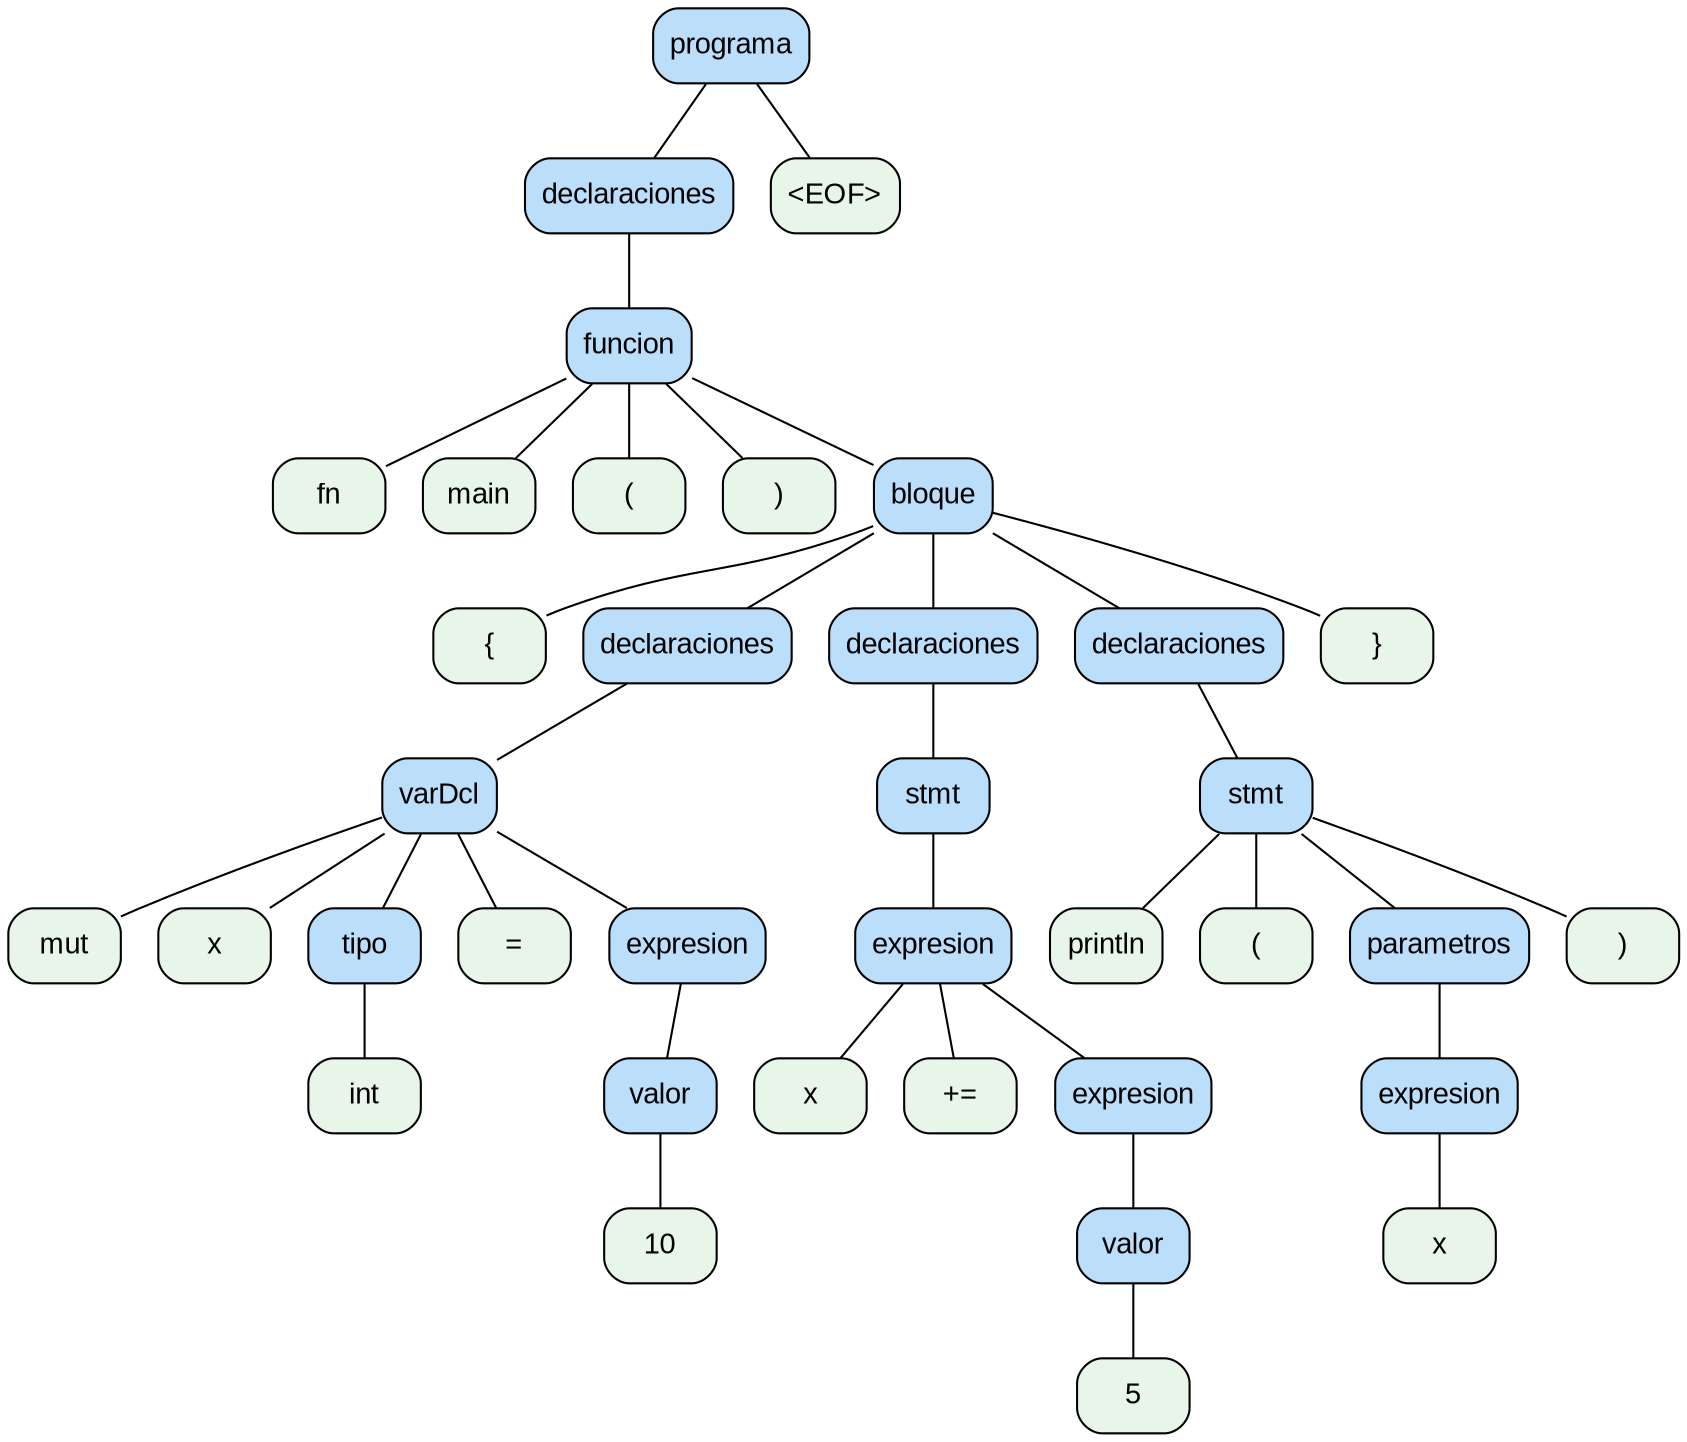
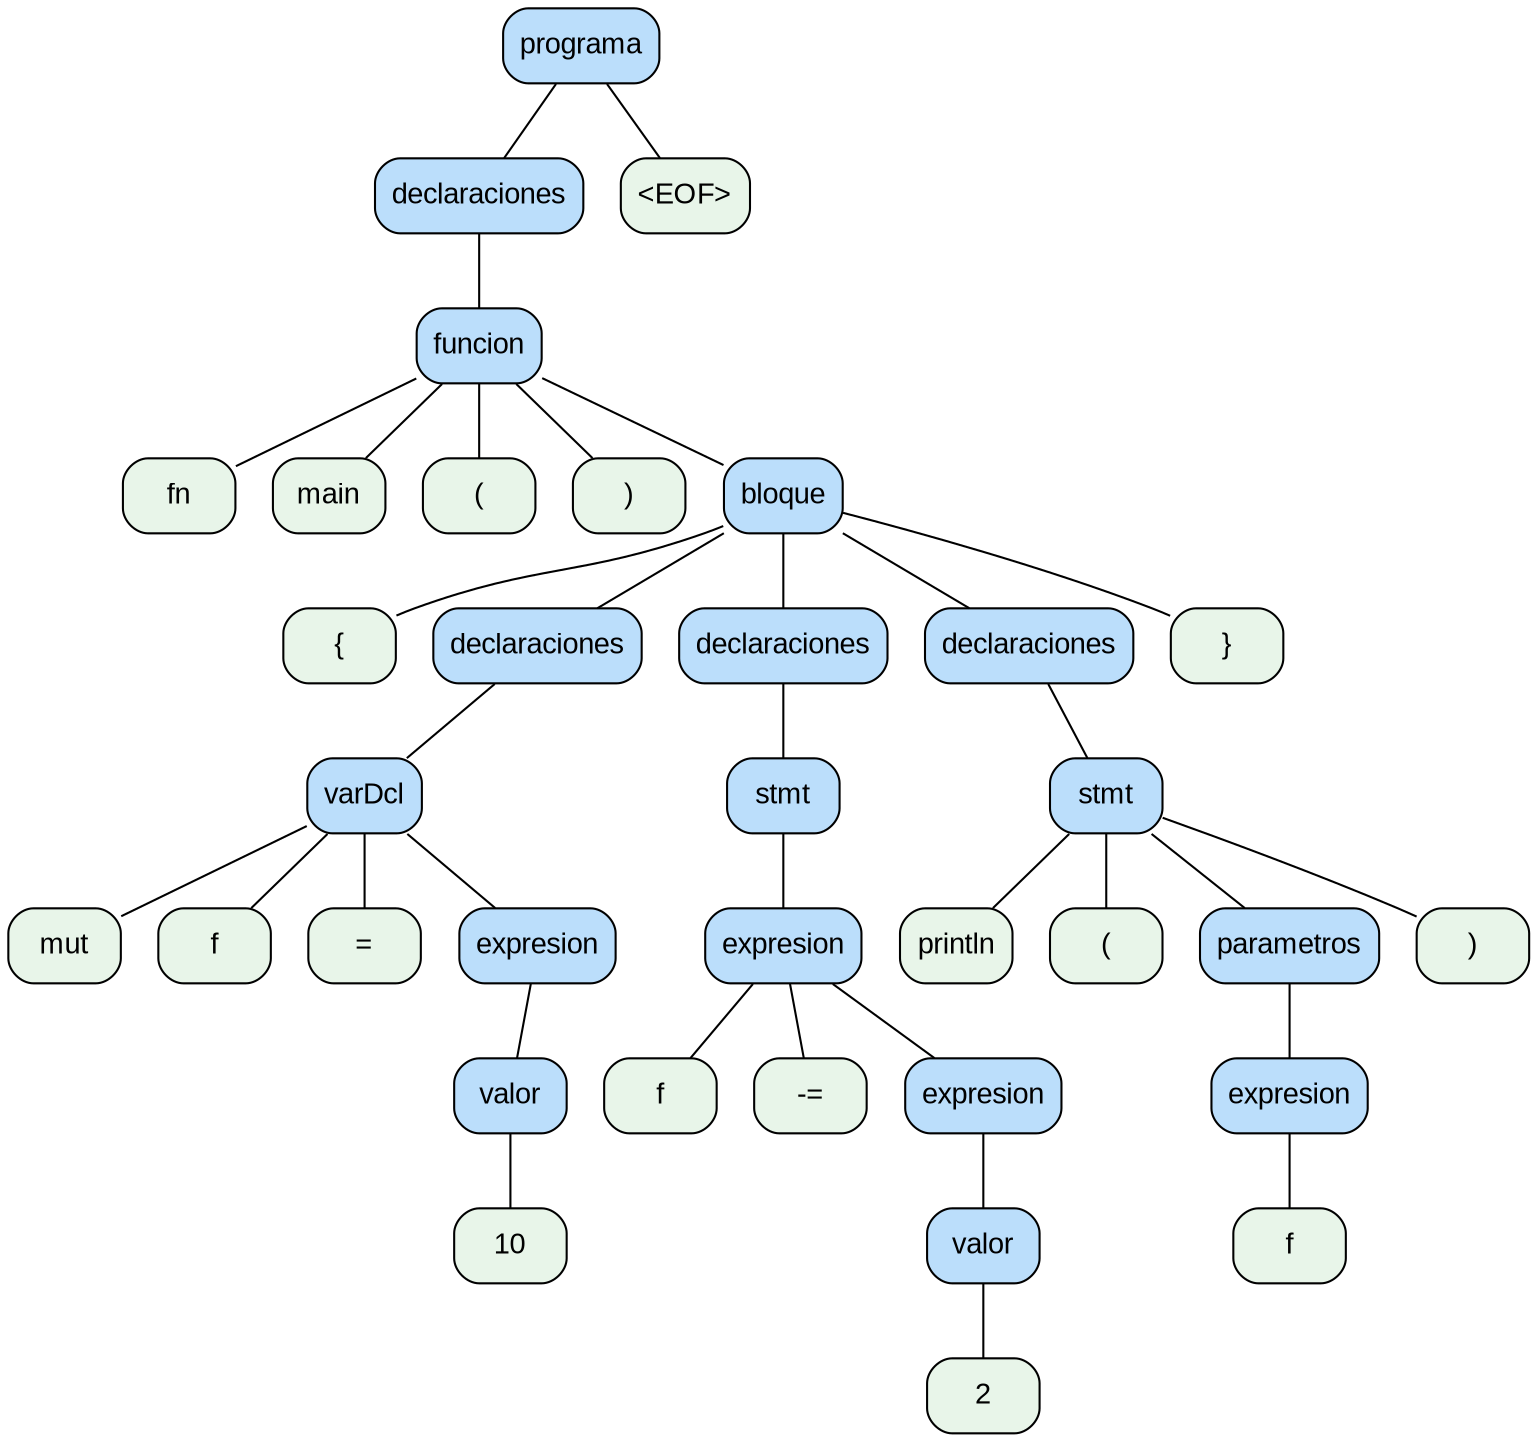
asignacion resta solo para enteros

diff --git a/arm/visitorARM.go b/arm/visitorARM.go
@@ -386,6 +386,13 @@ func (v *ArmVisitor) VisitFuncion(ctx *parser.FuncionContext) interface{} {
     return nil
 }
 
+var floatLabelCounter int = 0
+
+func (g *ArmGenerator) GenerateConstLabel() string {
+	label := fmt.Sprintf("float_const_%d", floatLabelCounter)
+	floatLabelCounter++
+	return label
+}
 
 
 
@@ -420,10 +427,13 @@ func (v *ArmVisitor) VisitVariableDeclaration(ctx *parser.VariableDeclarationCon
 		switch value := val.(type) {
 		case string:
 			reg = value
-			tipo = "int" // por defecto, puedes mejorar esto más adelante con análisis semántico
+			tipo = "int"
 		case ArmString:
 			reg = value.Reg
 			tipo = "string"
+		case FloatReg:
+			reg = value.Reg
+			tipo = "float64"
 		default:
 			fmt.Printf("⚠ Error: expresión no retornó un registro válido para variable '%s'\n", varName)
 			return nil
@@ -432,27 +442,50 @@ func (v *ArmVisitor) VisitVariableDeclaration(ctx *parser.VariableDeclarationCon
 		v.Generator.Add(fmt.Sprintf("STR %s, %s", reg, memLocation))
 		v.Generator.Comment(fmt.Sprintf("Variable %s inicializada con valor en %s", varName, reg))
 
-		// Guardar tipo y ubicación
 		v.Generator.Variables[varName] = SymbolInfo{
 			Location: memLocation,
 			Type:     tipo,
 		}
 	} else {
-		v.Generator.Add(fmt.Sprintf("MOV %s, #0", X0))
-		v.Generator.Add(fmt.Sprintf("STR %s, %s", X0, memLocation))
-		v.Generator.Comment(fmt.Sprintf("Variable %s declarada sin valor (inicializada en 0)", varName))
+		var tipo string
+		if ctx.Tipo() != nil {
+			tipoTexto := ctx.Tipo().GetText()
+			switch tipoTexto {
+			case "float64":
+				tipo = "float64"
+				label := v.Generator.GenerateConstLabel()
+				v.Generator.AddDataDouble(label, 0.0)
+				v.Generator.Add(fmt.Sprintf("ADR x1, %s", label))
+				v.Generator.Add("LDR d0, [x1]")
+				v.Generator.Add(fmt.Sprintf("STR d0, %s", memLocation))
 
-		// Por defecto, tipo int si no tiene valor inicial
+			case "string":
+				tipo = "string"
+				label := v.Generator.GenerateStringLabel()
+				v.Generator.AddData(label, "")
+				v.Generator.Add(fmt.Sprintf("ADR x1, %s", label))
+				v.Generator.Add(fmt.Sprintf("STR x1, %s", memLocation))
+			default:
+				tipo = "int"
+				v.Generator.Add(fmt.Sprintf("MOV %s, #0", X0))
+				v.Generator.Add(fmt.Sprintf("STR %s, %s", X0, memLocation))
+			}
+		} else {
+			tipo = "int"
+			v.Generator.Add(fmt.Sprintf("MOV %s, #0", X0))
+			v.Generator.Add(fmt.Sprintf("STR %s, %s", X0, memLocation))
+		}
+
+		v.Generator.Comment(fmt.Sprintf("Variable %s declarada sin valor (tipo: %s)", varName, tipo))
 		v.Generator.Variables[varName] = SymbolInfo{
 			Location: memLocation,
-			Type:     "int",
+			Type:     tipo,
 		}
 	}
 
 	v.Generator.VarOffset += 8
 	return nil
 }
-
 
 
 
@@ -464,16 +497,24 @@ func (v *ArmVisitor) VisitId(ctx *parser.IdContext) interface{} {
 		return nil
 	}
 
-	reg := v.Generator.NextTempReg()
 	v.Generator.Comment(fmt.Sprintf("Accediendo variable %s", varName))
-	v.Generator.Add(fmt.Sprintf("LDR %s, %s", reg, info.Location))
 
 	switch info.Type {
-	case "string", "float64", "bool":
-		// Si son valores que se imprimen como cadenas
+	case "float64":
+		// Usa registro flotante
+		reg := v.Generator.NextTempFloatReg()
+		v.Generator.Add(fmt.Sprintf("LDR %s, %s", reg, info.Location))
+		return FloatReg{Reg: reg}
+
+	case "string":
+		reg := v.Generator.NextTempReg()
+		v.Generator.Add(fmt.Sprintf("LDR %s, %s", reg, info.Location))
 		return ArmString{Reg: reg, Label: ""}
+
 	default:
-		// Enteros, etc.
+		// Asumimos int, bool, etc.
+		reg := v.Generator.NextTempReg()
+		v.Generator.Add(fmt.Sprintf("LDR %s, %s", reg, info.Location))
 		return reg
 	}
 }
@@ -733,6 +774,51 @@ func (v *ArmVisitor) VisitAsignacionCompuestaSuma(ctx *parser.AsignacionCompuest
 
 	default:
 		v.Generator.Comment("❌ Tipo no soportado en '+='")
+	}
+
+	return nil
+}
+
+
+
+// asignacion compuesta resta (decremento)
+
+func (v *ArmVisitor) VisitAsignacionCompuestaResta(ctx *parser.AsignacionCompuestaRestaContext) interface{} {
+	id := ctx.ID().GetText()
+	right := v.Visit(ctx.Expresion())
+
+	sym, ok := v.Generator.Variables[id]
+	if !ok {
+		v.Generator.Comment(fmt.Sprintf("❌ Variable '%s' no declarada", id))
+		return nil
+	}
+
+	switch sym.Type {
+	case "int":
+		rightReg, ok := right.(string)
+		if !ok {
+			v.Generator.Comment("❌ Incompatibilidad de tipo en -= int")
+			return nil
+		}
+		result := v.Generator.NextTempReg()
+		v.Generator.Add(fmt.Sprintf("LDR %s, %s", result, sym.Location))         // carga valor actual
+		v.Generator.Add(fmt.Sprintf("SUB %s, %s, %s", result, result, rightReg)) // resta
+		v.Generator.Add(fmt.Sprintf("STR %s, %s", result, sym.Location))         // guarda de nuevo
+
+	case "float64":
+		rightF, ok := right.(FloatReg)
+		if !ok {
+			v.Generator.Comment("❌ Incompatibilidad de tipo en -= float64")
+			return nil
+		}
+		left := v.Generator.NextTempFloatReg()
+		v.Generator.Add(fmt.Sprintf("LDR %s, %s", left, sym.Location)) // carga valor actual
+		res := v.Generator.NextTempFloatReg()
+		v.Generator.Add(fmt.Sprintf("FSUB %s, %s, %s", res, left, rightF.Reg)) // resta float
+		v.Generator.Add(fmt.Sprintf("STR %s, %s", res, sym.Location))          // guarda de nuevo
+
+	default:
+		v.Generator.Comment("❌ Tipo no soportado en '-='")
 	}
 
 	return nil
